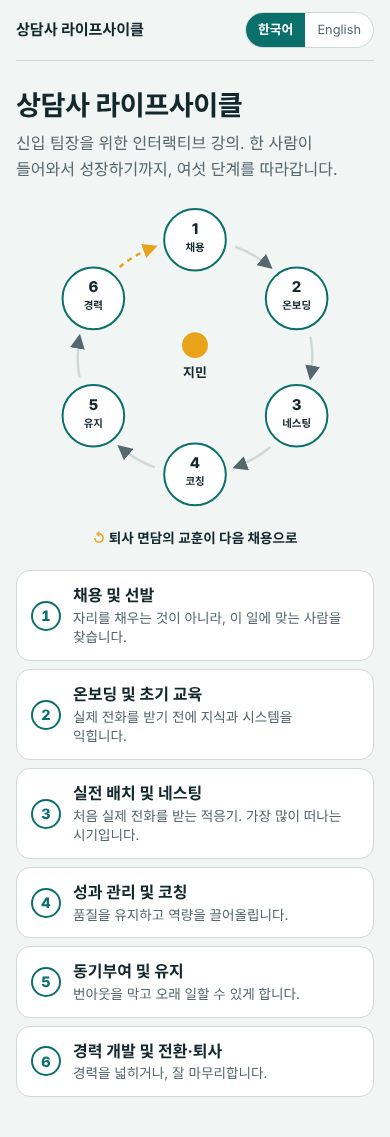
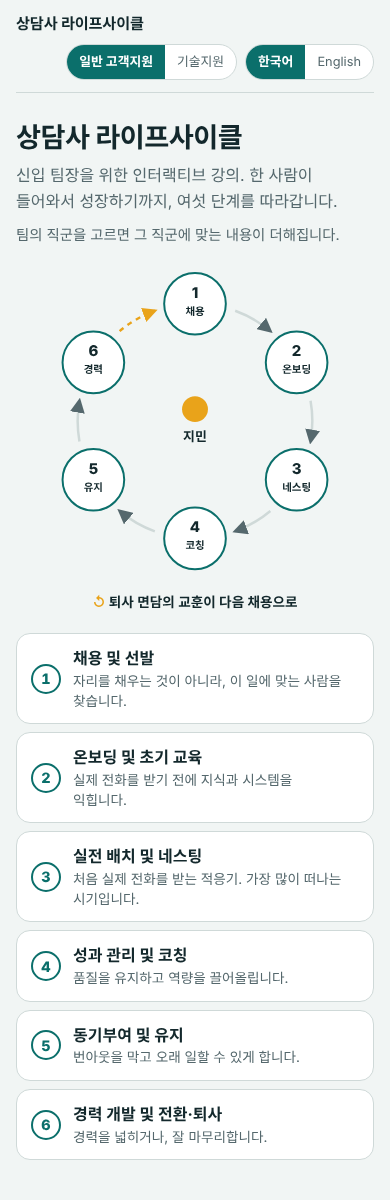
test: extend browser checks for tracks
Claude-Session: https://claude.ai/code/session_01LbVuTMtT66bYJygp1kGdMM

diff --git a/agent-lifecycle/scripts/browser_check.py b/agent-lifecycle/scripts/browser_check.py
@@ -15,6 +15,11 @@ from playwright.sync_api import sync_playwright
 ROOT = pathlib.Path(__file__).resolve().parent.parent
 OUT = ROOT / "scripts" / "out"
 LESSONS = ["hiring", "onboarding", "nesting", "coaching", "retention", "career"]
+TRACK_KEY = "agent-lifecycle-course:track"
+STEPS = {  # steps each track sees, per lesson
+    "general": {"hiring": 9, "onboarding": 10, "nesting": 9, "coaching": 12, "retention": 9, "career": 9},
+    "tech": {"hiring": 10, "onboarding": 10, "nesting": 9, "coaching": 12, "retention": 9, "career": 9},
+}
 BLOCK_STORAGE = "Object.defineProperty(window, 'localStorage', { get() { throw new Error('blocked'); } });"
 
 failures = []
@@ -60,12 +65,13 @@ def main():
 
         # (a) no sideways scroll at phone and desktop widths, home and every lesson
         for width in (320, 390, 1280):
-            page = new_page(browser, errors, width=width)
-            for hash_ in ["#home"] + [f"#{l}-0" for l in LESSONS]:
-                open_at(page, base, hash_)
-                overflow = page.evaluate("document.documentElement.scrollWidth - window.innerWidth")
-                check(f"(a) no horizontal scroll {width}px {hash_}", overflow <= 0, f"overflow={overflow}")
-            page.context.close()
+            for track in ("general", "tech"):
+                page = new_page(browser, errors, width=width, init=f"try {{ localStorage.setItem('{TRACK_KEY}', '{track}'); }} catch (e) {{}}")
+                for hash_ in ["#home"] + [f"#{l}-{n}" for l in LESSONS for n in (0, 4)]:
+                    open_at(page, base, hash_)
+                    overflow = page.evaluate("document.documentElement.scrollWidth - window.innerWidth")
+                    check(f"(a) no horizontal scroll {width}px {track} {hash_}", overflow <= 0, f"overflow={overflow}")
+                page.context.close()
 
         page = new_page(browser, errors)
 
@@ -75,16 +81,19 @@ def main():
 
         # (d) step past the end -> last step
         open_at(page, base, "#hiring-99")
-        check("(d) step clamps to last", page.inner_text("[data-counter]") == "8 / 8", page.inner_text("[data-counter]"))
+        check("(d) step clamps to last", page.inner_text("[data-counter]") == "9 / 9", page.inner_text("[data-counter]"))
 
         # (i) full run of lesson 1: steps -> checkpoint -> connection -> home shows done
         open_at(page, base, "#hiring-0")
-        for _ in range(8):
+        for _ in range(STEPS["general"]["hiring"]):
             page.click("[data-next]")
         check("(i) checkpoint opens after last step", page.is_visible("[data-view='checkpoint']"))
-        page.click("[data-option='a']")
-        page.click("[data-option='b']")
-        check("(i) one explanation shown", page.locator("[data-explanation]:visible").count() == 1)
+        check("(i) two questions on the general track", page.locator("[data-question]").count() == 2)
+        page.click("[data-question='hiring-q1'] [data-option='a']")
+        page.click("[data-question='hiring-q1'] [data-option='b']")
+        check("(i) one explanation per answered question", page.locator("[data-explanation]:visible").count() == 1)
+        check("(i) connection waits for every question", not page.is_visible("[data-connection]"))
+        page.click("[data-question='hiring-general'] [data-option='b']")
         check("(i) connection card shown", page.is_visible("[data-connection]"))
         page.click("[data-lang='en']")
         page.wait_for_function("document.querySelector('[data-back]')?.textContent.includes('Back')")
@@ -92,24 +101,58 @@ def main():
         page.click("[data-lang='ko']")
         page.wait_for_function("document.querySelector('[data-back]')?.textContent.includes('이전')")
         page.click("[data-next-lesson]")
-        page.wait_for_function("document.querySelector('[data-counter]')?.textContent === '1 / 7'")
+        page.wait_for_function("document.querySelector('[data-counter]')?.textContent === '1 / 10'")
         check("(i) next lesson opens", "onboarding-0" in page.url)
         page.click("[data-home]")
         page.wait_for_selector("[data-stage-list]")
         check("(i) finished lesson marked done", "is-done" in (page.get_attribute("[data-stage-list] a[data-stage='hiring']", "class") or ""))
         page.go_back()
         page.wait_for_selector("[data-counter]")
-        check("(i) browser back returns to lesson", page.inner_text("[data-counter]") == "1 / 7")
+        check("(i) browser back returns to lesson", page.inner_text("[data-counter]") == "1 / 10")
 
         # (h) language switch keeps the step and survives reload
         open_at(page, base, "#hiring-2")
         page.click("[data-lang='en']")
         page.wait_for_function("document.querySelector('[data-next]')?.textContent.trim() === 'Next'")
-        check("(h) step kept after language switch", page.inner_text("[data-counter]") == "3 / 8")
+        check("(h) step kept after language switch", page.inner_text("[data-counter]") == "3 / 9")
         page.reload()
         page.wait_for_selector("[data-next]")
         check("(h) language kept after reload", page.inner_text("[data-next]").strip() == "Next")
-        check("(h) step kept after reload", page.inner_text("[data-counter]") == "3 / 8")
+        check("(h) step kept after reload", page.inner_text("[data-counter]") == "3 / 9")
+
+        # (l) track choice survives a reload; (m) switching track keeps the step in range
+        page.click("[data-lang='ko']")
+        page.wait_for_function("document.querySelector('[data-next]')?.textContent.trim() === '다음'")
+        open_at(page, base, "#hiring-6")  # general: the mock-call step (common)
+        page.click("[data-track='tech']")
+        page.wait_for_function("document.querySelector('[data-counter]')?.textContent.endsWith('/ 10')")
+        check("(m) same common step after switching to tech", page.inner_text("[data-counter]") == EXPECT_TECH_COUNTER, page.inner_text("[data-counter]"))
+        check("(m) address follows the switch", page.url.endswith("#hiring-6"), page.url)
+        page.click("[data-next]")  # tech-only step
+        check("(m) badge on a tech-only step", page.inner_text("[data-track-badge]") == "기술지원")
+        page.click("[data-track='general']")
+        page.wait_for_function("document.querySelector('[data-counter]')?.textContent.endsWith('/ 9')")
+        check("(m) tech-only step falls back to the common step before it", page.inner_text("[data-counter]") == "7 / 9", page.inner_text("[data-counter]"))
+        page.click("[data-track='tech']")
+        page.reload()
+        page.wait_for_selector("[data-counter]")
+        check("(l) track kept after reload", page.get_attribute("[data-track='tech']", "aria-pressed") == "true")
+        open_at(page, base, "#coaching-11")
+        page.click("[data-track='general']")
+        page.wait_for_function("document.querySelector('[data-track=general]')?.getAttribute('aria-pressed') === 'true'")
+        n = int(page.inner_text("[data-counter]").split(" / ")[0])
+        check("(m) step stays in range after switching", 1 <= n <= 12, str(n))
+
+        # (n) switching track inside the checkpoint keeps it open and clears answers
+        open_at(page, base, "#nesting-8")
+        page.click("[data-next]")
+        page.click("[data-question='nesting-q1'] [data-option='b']")
+        page.click("[data-track='tech']")
+        page.wait_for_selector("[data-question='nesting-tech']")
+        check("(n) checkpoint stays open after a track switch", page.is_visible("[data-view='checkpoint']"))
+        check("(n) answers cleared after a track switch", page.locator(".option.is-correct").count() == 0)
+        check("(n) old track question gone", page.locator("[data-question='nesting-general']").count() == 0)
+        page.click("[data-track='general']")
         page.context.close()
 
         # (g) first visit follows the browser language
@@ -117,9 +160,10 @@ def main():
         open_at(page, base)
         check("(g) ko-KR starts in Korean", page.inner_text("h1") == "상담사 라이프사이클", page.inner_text("h1"))
         page.screenshot(path=str(OUT / "home-390.png"), full_page=True)
-        open_at(page, base, "#nesting-4")
+        page.click("[data-track='tech']")
+        open_at(page, base, "#onboarding-9")
         page.wait_for_timeout(500)
-        page.screenshot(path=str(OUT / "lesson-390.png"), full_page=True)
+        page.screenshot(path=str(OUT / "lesson-390-tech.png"), full_page=True)
         page.context.close()
 
         page = new_page(browser, errors, locale="en-US")
@@ -129,7 +173,8 @@ def main():
         check("(g) English translation note", note_visible == EXPECT_TRANSLATION_NOTE, f"visible={note_visible}")
         for width in (320, 390):
             page.set_viewport_size({"width": width, "height": 780})
-            for hash_ in ["#home", "#hiring-1", "#nesting-5", "#career-7"]:
+            page.evaluate(f"localStorage.setItem('{TRACK_KEY}', 'tech')")
+            for hash_ in ["#home", "#hiring-1", "#hiring-6", "#nesting-5", "#coaching-8", "#career-7"]:
                 open_at(page, base, hash_)
                 overflow = page.evaluate("document.documentElement.scrollWidth - window.innerWidth")
                 check(f"(k) English no horizontal scroll {width}px {hash_}", overflow <= 0, f"overflow={overflow}")
@@ -146,7 +191,10 @@ def main():
         page.click("[data-lang='en']")
         page.wait_for_function("document.querySelector('h1')?.textContent === 'The Agent Lifecycle'")
         open_at(page, base, "#career-0")
-        check("(e) lesson renders with storage blocked", page.inner_text("[data-counter]") == "1 / 8")
+        check("(e) lesson renders with storage blocked", page.inner_text("[data-counter]") == "1 / 9")
+        page.click("[data-track='tech']")
+        page.wait_for_function("document.querySelector('[data-track=tech]')?.getAttribute('aria-pressed') === 'true'")
+        check("(e) track switch works with storage blocked", page.inner_text("[data-counter]") == "1 / 9")
         page.context.close()
 
         # (f) desktop + dark screenshots for a human look
@@ -179,7 +227,8 @@ def main():
 
 # English is fully translated, so no fallback note is expected. If English
 # text goes missing, the note appears and this check fails.
-EXPECT_TRANSLATION_NOTE = False
+EXPECT_TRANSLATION_NOTE = True
+EXPECT_TECH_COUNTER = "7 / 10"
 
 if __name__ == "__main__":
     main()
